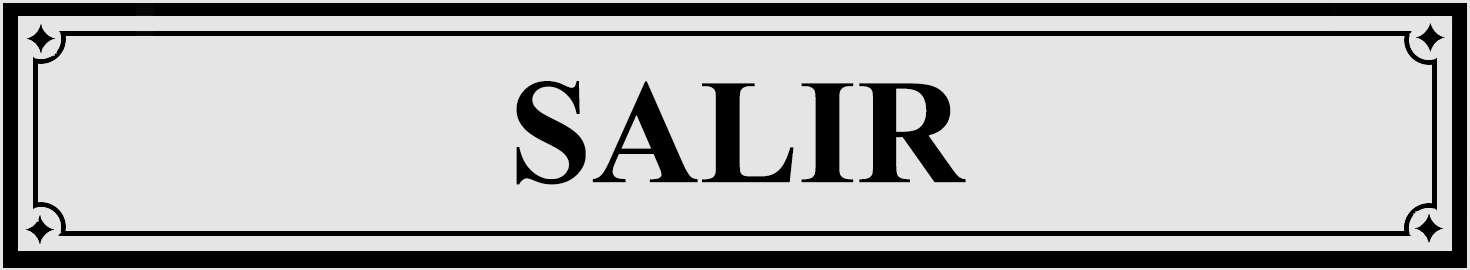
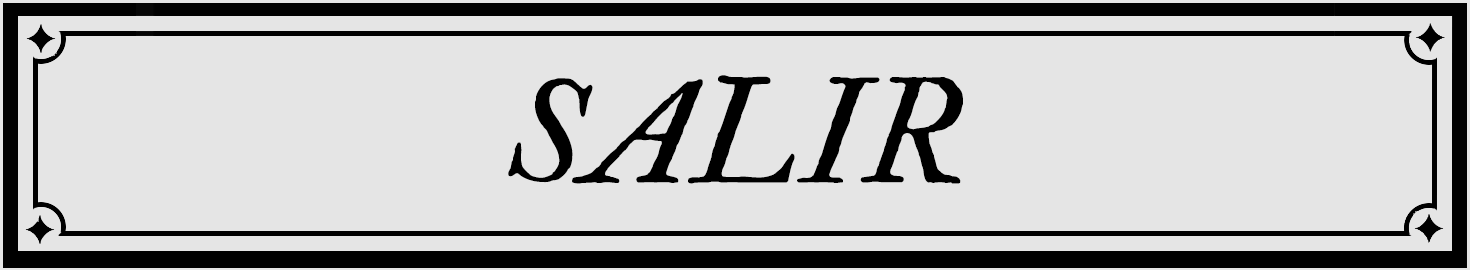
Assets de botones UI con la fuente correcta, implementacion de assets en menu de pausa y quitando boton extra de la room1

Changed region(s): [[0.3367, 0.2667, 0.6735, 0.6815]]

diff --git a/TheatrumMundiProyect/TheatrumMundi/PauseManager.cpp b/TheatrumMundiProyect/TheatrumMundi/PauseManager.cpp
@@ -40,7 +40,7 @@ void PauseManager::Init(EntityFactory* entityFactory, ecs::EntityManager* entity
 	Sound buttonSound = sdlutils().soundEffects().at("boton");
 	AudioManager::Instance().setVolume(buttonSound, 0.2);
 
-	auto _backgroundPause = entityFactory->CreateImageEntity(entityManager, "fondoPruebaLog", Vector2D(450, 250), Vector2D(0, 0), 450, 250, 0, ecs::grp::BACKGROUNDPAUSE);
+	auto _backgroundPause = entityFactory->CreateImageEntity(entityManager, "MenuBackground", Vector2D(443, 250), Vector2D(0, 0), 450, 245, 0, ecs::grp::BACKGROUNDPAUSE);
 	entityManager->setActive(_backgroundPause, false);
 
 	//ENTIDADCONENTITYFACTORY
@@ -48,7 +48,7 @@ void PauseManager::Init(EntityFactory* entityFactory, ecs::EntityManager* entity
 	entityManager->setActive(_backgroundNotInteractable, false);
 
 	//GO TO ROOM
-	_reanudePauseButton = entityFactory->CreateInteractableEntity(entityManager, "B3", EntityFactory::RECTAREA, Vector2D(470, 270), Vector2D(0, 0), 90, 90, 0, areaLayerManager, EntityFactory::NODRAG, ecs::grp::INTERACTPAUSE);
+	_reanudePauseButton = entityFactory->CreateInteractableEntity(entityManager, "Continue", EntityFactory::RECTAREA, Vector2D(482, 280), Vector2D(0, 0), 367, 67, 0, areaLayerManager, EntityFactory::NODRAG, ecs::grp::INTERACTPAUSE);
 	entityManager->setActive(_reanudePauseButton, false);
 	ClickComponent* buttonReanudePauseClick = entityManager->getComponent<ClickComponent>(_reanudePauseButton);
 	buttonReanudePauseClick->connect(ClickComponent::JUST_CLICKED, [this, buttonSound, entityManager]() {
@@ -59,7 +59,7 @@ void PauseManager::Init(EntityFactory* entityFactory, ecs::EntityManager* entity
 		});
 
 	//GO TO THE INITIALMENU SCENE
-	_exitPauseButton = entityFactory->CreateInteractableEntity(entityManager, "B1", EntityFactory::RECTAREA, Vector2D(470, 370), Vector2D(0, 0), 90, 90, 0, areaLayerManager, EntityFactory::NODRAG, ecs::grp::INTERACTPAUSE);
+	_exitPauseButton = entityFactory->CreateInteractableEntity(entityManager, "ExitToMenu", EntityFactory::RECTAREA, Vector2D(482, 398), Vector2D(0, 0), 367, 67, 0, areaLayerManager, EntityFactory::NODRAG, ecs::grp::INTERACTPAUSE);
 	entityManager->setActive(_exitPauseButton, false);
 	ClickComponent* buttonExitPauseClick = entityManager->getComponent<ClickComponent>(_exitPauseButton);
 	buttonExitPauseClick->connect(ClickComponent::JUST_CLICKED, [this, buttonSound, entityManager]() {

diff --git a/TheatrumMundiProyect/TheatrumMundi/Room1.cpp b/TheatrumMundiProyect/TheatrumMundi/Room1.cpp
@@ -351,15 +351,6 @@ void Room1Scene::_setUI()
 
 	entityManager->setActive(rmObjects.quitButton, false);
 
-	// Pause Button
-	rmObjects.pauseButton = entityFactory->CreateInteractableEntity(entityManager, "B3", EntityFactory::RECTAREA, Vector2D(20, 20), Vector2D(0, 0), 90, 90, 0, areaLayerManager, EntityFactory::NODRAG, ecs::grp::UI);
-	
-	entityManager->getComponent<ClickComponent>(rmObjects.pauseButton)
-		->connect(ClickComponent::JUST_CLICKED, [this]() 
-		{
-			AudioManager::Instance().playSound(rmSounds.uiButton);
-		});
-
 
 	//Inventory
 	auto InventoryBackground = entityFactory->CreateImageEntity(entityManager, "fondoPruebaLog", Vector2D(1050, 0), Vector2D(0, 0), 300, 1500, 0, ecs::grp::UI);

diff --git a/TheatrumMundiProyect/TheatrumMundi/Room1.h b/TheatrumMundiProyect/TheatrumMundi/Room1.h
@@ -59,7 +59,6 @@ private:
 
 	struct roomObjects {
 		ecs::entity_t quitButton		  = nullptr;
-		ecs::entity_t pauseButton		  = nullptr;
 		ecs::entity_t inventoryButton	  = nullptr;
 		ecs::entity_t readyToResolveBotton = nullptr;
 		ecs::entity_t blackBackground = nullptr;
